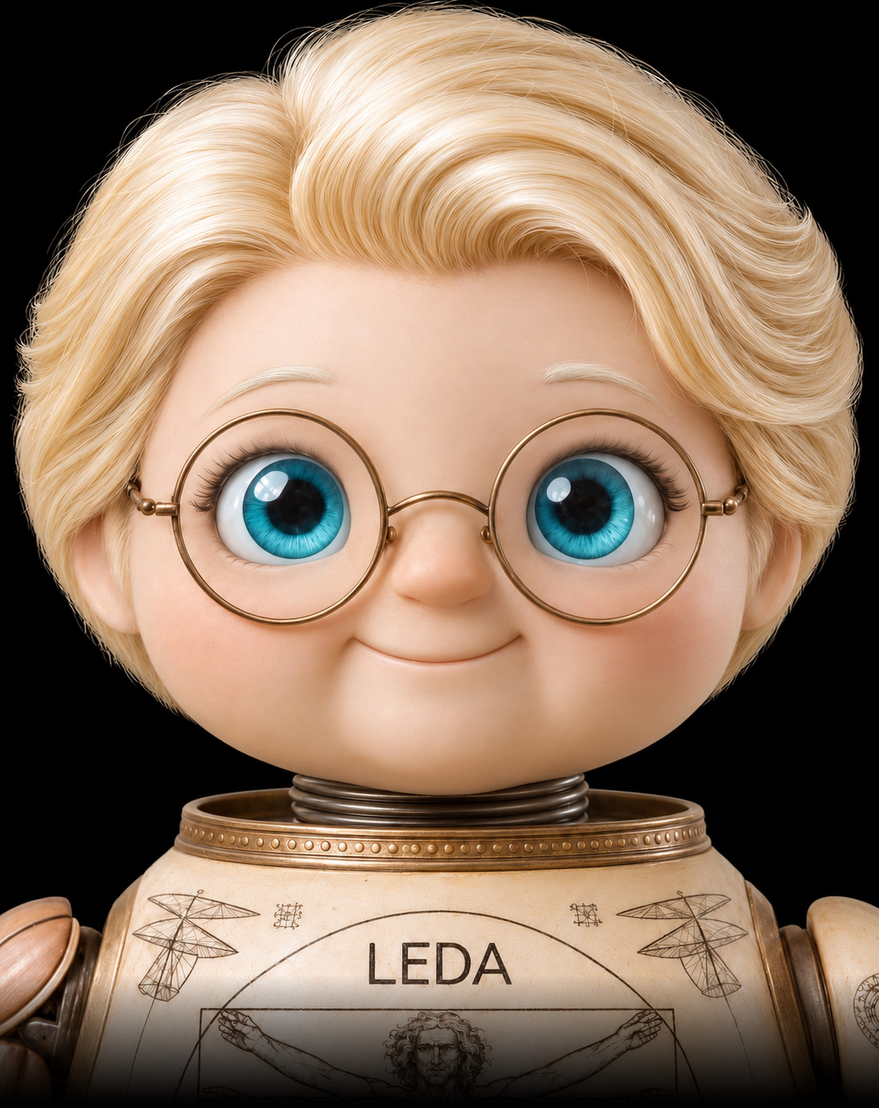
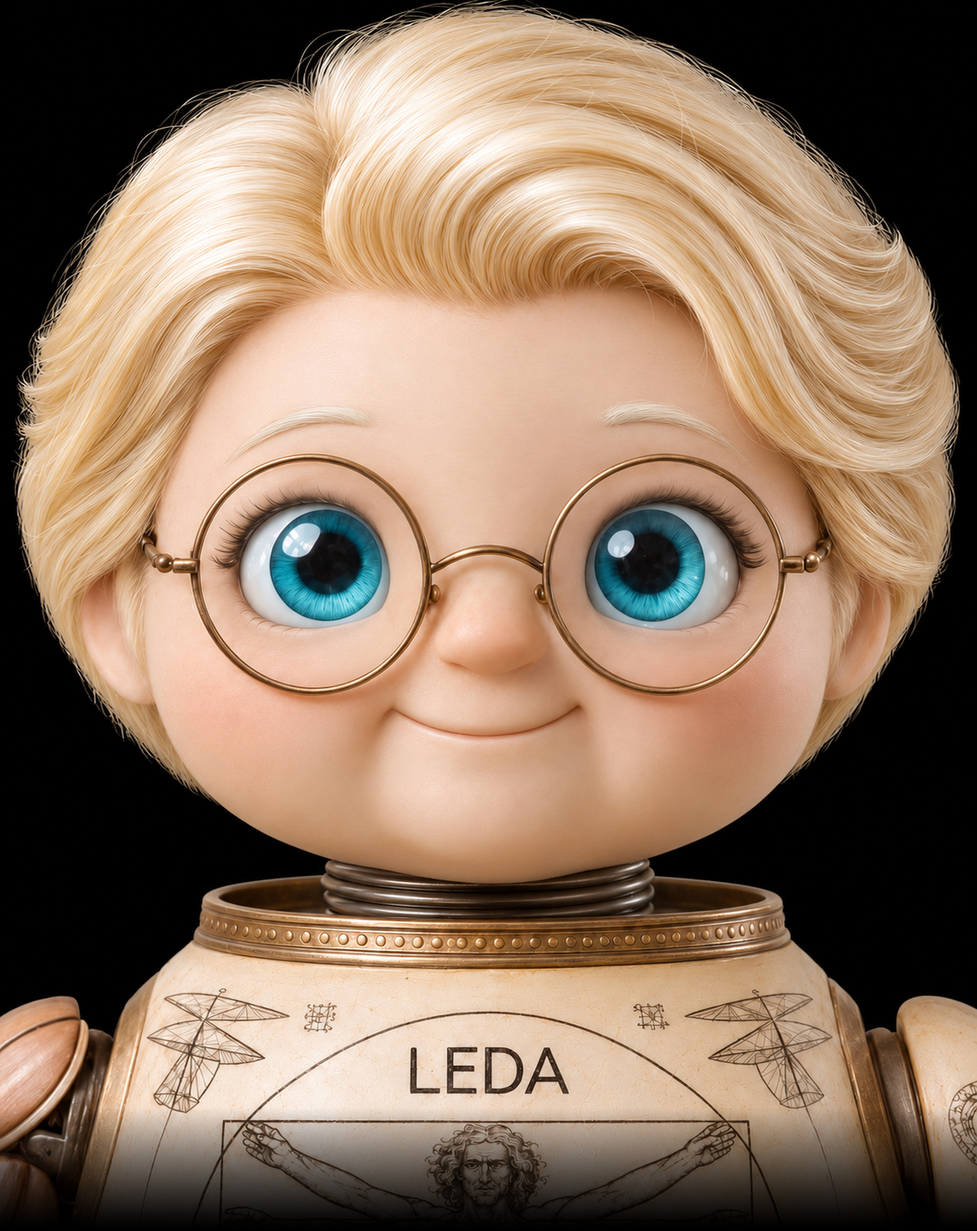
Leda: arte em alta definição sem cache velho; 'Fale com a Leda' em neon à direita do microfone. Felyx: 'Fale com o Felyx'

Changed region(s): [[0.0, 0.8638, 1.0, 0.9564]]

diff --git a/app-leda/full.html b/app-leda/full.html
@@ -450,7 +450,7 @@ input,select,textarea{font-size:16px!important}
   addEventListener('DOMContentLoaded', folgas); addEventListener('resize', folgas); addEventListener('orientationchange', ()=>setTimeout(folgas, 250));
 })();
 </script>
-<style id="semIris">#unlock{display:none!important}#hud>.mic{overflow:visible}#hud[data-tab="home"]>.mic[data-on="0"]::after{content:"toque para iniciar\A" attr(data-rotulo);white-space:pre;position:absolute;left:50%;bottom:calc(100% + 10px);transform:translateX(-50%);padding:7px 12px;border-radius:10px;background:rgba(8,11,13,.88);border:1px solid rgba(225,254,6,.45);color:#e8edf0;font:600 .72rem/1.35 "Barlow Semi Condensed","Barlow",system-ui,sans-serif;letter-spacing:.08em;text-transform:uppercase;text-align:center;pointer-events:none;width:max-content;max-width:70vw}@media (orientation:landscape) and (max-height:600px){#hud[data-tab="home"]>.mic[data-on="0"]::after{left:auto;right:calc(100% + 10px);bottom:50%;transform:translateY(50%)}}</style>
+<style id="semIris">#unlock{display:none!important}#hud>.mic{overflow:visible}#hud[data-tab="home"]>.mic[data-on="0"]::after{content:attr(data-rotulo);position:absolute;left:calc(100% + 16px);top:50%;transform:translateY(-50%);color:#e1fe06;font:700 1.02rem/1.1 "Barlow Semi Condensed","Barlow",system-ui,sans-serif;letter-spacing:.04em;white-space:nowrap;pointer-events:none;text-shadow:0 0 6px rgba(225,254,6,.75),0 0 18px rgba(225,254,6,.45),0 1px 2px #000}@media (orientation:landscape) and (max-height:600px){#hud[data-tab="home"]>.mic[data-on="0"]::after{left:auto;right:calc(100% + 16px)}}</style>
 <style id="ledaVisual">
 /* Leda (12/11/2026, revisão 2): busto recortado em fundo preto, rosto grande; paleta da VINCI; aba Receitas; sem cotações */
 :root{--leda:#e1fe06;--ledaRGB:225,254,6;--ink950:#080b0d;--ink900:#0e1317;--ink800:#141b21;--ink700:#1c252c;--linha:#24303a;--mist:#93a3af;--texto:#e8edf0}
@@ -751,7 +751,7 @@ document.addEventListener('DOMContentLoaded', ()=>{
     <section class="center">
       <section class="orbWrap" aria-label="Leda">
         <canvas id="rings" aria-hidden="true"></canvas>
-        <div class="face"><img class="ledaBusto" src="leda-busto.jpg" alt="Leda" draggable="false"><img class="ledaRosto" src="leda-rosto.jpg" alt="" draggable="false">
+        <div class="face"><img class="ledaBusto" src="leda-busto.jpg?v=20261112d" decoding="sync" alt="Leda" draggable="false"><img class="ledaRosto" src="leda-rosto.jpg?v=20261112d" alt="" draggable="false">
           <img class="retrato" src="leda-rosto.jpg" alt="" aria-hidden="true"><canvas id="cv" width="1000" height="1000" aria-hidden="true"></canvas>
           <video id="avatarVideo" autoplay playsinline muted aria-hidden="true"></video>
           <audio id="avatarAudio" autoplay></audio>
@@ -789,7 +789,7 @@ document.addEventListener('DOMContentLoaded', ()=>{
   <footer class="bottom">
     <div class="status" id="statusText" role="status" aria-live="polite"></div>
   </footer>
-    <button class="mic" id="talk" data-on="0" data-rotulo="Falar com Leda" aria-label="Falar" title="Falar">
+    <button class="mic" id="talk" data-on="0" data-rotulo="Fale com a Leda" aria-label="Falar" title="Falar">
       <svg viewBox="0 0 24 24" aria-hidden="true"><path d="M12 15a4 4 0 0 0 4-4V6a4 4 0 0 0-8 0v5a4 4 0 0 0 4 4zm6-4a1 1 0 1 1 2 0 8 8 0 0 1-7 7.93V21h2a1 1 0 1 1 0 2H9a1 1 0 1 1 0-2h2v-2.07A8 8 0 0 1 4 11a1 1 0 1 1 2 0 6 6 0 0 0 12 0z"/></svg>
     </button>
   <section id="receitas" aria-label="Receitas e boas práticas do lar"></section>
@@ -2452,7 +2452,7 @@ unlockEl.addEventListener('pointerdown', liberarEComecar);
 unlockEl.addEventListener('keydown', (e)=>{ if(e.key === 'Enter' || e.key === ' ') liberarEComecar(); });
 (function autoAbrir(){ /* semIrisAuto */ try{ unlockEl.hidden = true; }catch(e){}
   if(!SESSAO){ mostrarLogin(''); return; }
-  try{ talkBtn.title = 'Falar com Leda'; talkBtn.setAttribute('aria-label', 'Falar com Leda'); }catch(e){}
+  try{ talkBtn.title = 'Fale com a Leda'; talkBtn.setAttribute('aria-label', 'Fale com a Leda'); }catch(e){}
   return;
 
   if(!SESSAO){ mostrarLogin(''); return; }

diff --git a/app-leda/gem.html b/app-leda/gem.html
@@ -347,7 +347,7 @@ body::after{content:"";position:fixed;inset:0;pointer-events:none;background:rad
   .hud[data-tab="dashboard"] .news{min-height:200px}
 }
 </style>
-<style id="semIris">#unlock{display:none!important}#hud>.mic{overflow:visible}#hud[data-tab="home"]>.mic[data-on="0"]::after{content:"toque para iniciar\A" attr(data-rotulo);white-space:pre;position:absolute;left:50%;bottom:calc(100% + 10px);transform:translateX(-50%);padding:7px 12px;border-radius:10px;background:rgba(8,11,13,.88);border:1px solid rgba(225,254,6,.45);color:#e8edf0;font:600 .72rem/1.35 "Barlow Semi Condensed","Barlow",system-ui,sans-serif;letter-spacing:.08em;text-transform:uppercase;text-align:center;pointer-events:none;width:max-content;max-width:70vw}@media (orientation:landscape) and (max-height:600px){#hud[data-tab="home"]>.mic[data-on="0"]::after{left:auto;right:calc(100% + 10px);bottom:50%;transform:translateY(50%)}}</style>
+<style id="semIris">#unlock{display:none!important}#hud>.mic{overflow:visible}#hud[data-tab="home"]>.mic[data-on="0"]::after{content:attr(data-rotulo);position:absolute;left:calc(100% + 16px);top:50%;transform:translateY(-50%);color:#e1fe06;font:700 1.02rem/1.1 "Barlow Semi Condensed","Barlow",system-ui,sans-serif;letter-spacing:.04em;white-space:nowrap;pointer-events:none;text-shadow:0 0 6px rgba(225,254,6,.75),0 0 18px rgba(225,254,6,.45),0 1px 2px #000}@media (orientation:landscape) and (max-height:600px){#hud[data-tab="home"]>.mic[data-on="0"]::after{left:auto;right:calc(100% + 16px)}}</style>
 <style id="ledaVisual">
 /* Leda (12/11/2026, revisão 2): busto recortado em fundo preto, rosto grande; paleta da VINCI; aba Receitas; sem cotações */
 :root{--leda:#e1fe06;--ledaRGB:225,254,6;--ink950:#080b0d;--ink900:#0e1317;--ink800:#141b21;--ink700:#1c252c;--linha:#24303a;--mist:#93a3af;--texto:#e8edf0}
@@ -637,7 +637,7 @@ document.addEventListener('DOMContentLoaded', ()=>{
     <section class="center">
       <section class="orbWrap" aria-label="Leda">
         <canvas id="rings" aria-hidden="true"></canvas>
-        <div class="face"><img class="ledaBusto" src="leda-busto.jpg" alt="Leda" draggable="false"><img class="ledaRosto" src="leda-rosto.jpg" alt="" draggable="false">
+        <div class="face"><img class="ledaBusto" src="leda-busto.jpg?v=20261112d" decoding="sync" alt="Leda" draggable="false"><img class="ledaRosto" src="leda-rosto.jpg?v=20261112d" alt="" draggable="false">
           <canvas id="cv" width="1000" height="1000" aria-hidden="true"></canvas>
           <video id="avatarVideo" autoplay playsinline muted aria-hidden="true"></video>
           <audio id="avatarAudio" autoplay></audio>
@@ -689,7 +689,7 @@ document.addEventListener('DOMContentLoaded', ()=>{
     <button type="button" role="tab" data-tab-target="dashboard" aria-selected="false">Dashboard</button>
     <button type="button" role="tab" data-tab-target="receitas" aria-selected="false">Receitas</button><button type="button" role="tab" data-tab-target="rooms" aria-selected="false">Salas</button>
   </nav>
-    <button class="mic" id="talk" data-on="0" data-rotulo="Falar com Leda" aria-label="Falar" title="Falar">
+    <button class="mic" id="talk" data-on="0" data-rotulo="Fale com a Leda" aria-label="Falar" title="Falar">
       <svg viewBox="0 0 24 24" aria-hidden="true"><path d="M12 15a4 4 0 0 0 4-4V6a4 4 0 0 0-8 0v5a4 4 0 0 0 4 4zm6-4a1 1 0 1 1 2 0 8 8 0 0 1-7 7.93V21h2a1 1 0 1 1 0 2H9a1 1 0 1 1 0-2h2v-2.07A8 8 0 0 1 4 11a1 1 0 1 1 2 0 6 6 0 0 0 12 0z"/></svg>
     </button>
 </div>
@@ -2156,7 +2156,7 @@ unlockEl.addEventListener('pointerdown', liberarEComecar);
 unlockEl.addEventListener('keydown', (e)=>{ if(e.key === 'Enter' || e.key === ' ') liberarEComecar(); });
 (function autoAbrir(){ /* semIrisAuto */ try{ unlockEl.hidden = true; }catch(e){}
   if(!SESSAO){ mostrarLogin(''); return; }
-  try{ talkBtn.title = 'Falar com Leda'; talkBtn.setAttribute('aria-label', 'Falar com Leda'); }catch(e){}
+  try{ talkBtn.title = 'Fale com a Leda'; talkBtn.setAttribute('aria-label', 'Fale com a Leda'); }catch(e){}
   return;
 
   if(!SESSAO){ mostrarLogin(''); return; }

diff --git a/app/full.html b/app/full.html
@@ -450,7 +450,7 @@ input,select,textarea{font-size:16px!important}
   addEventListener('DOMContentLoaded', folgas); addEventListener('resize', folgas); addEventListener('orientationchange', ()=>setTimeout(folgas, 250));
 })();
 </script>
-<style id="semIris">#unlock{display:none!important}#hud>.mic{overflow:visible}#hud[data-tab="home"]>.mic[data-on="0"]::after{content:"toque para iniciar\A" attr(data-rotulo);white-space:pre;position:absolute;left:50%;bottom:calc(100% + 10px);transform:translateX(-50%);padding:7px 12px;border-radius:10px;background:rgba(8,11,13,.88);border:1px solid rgba(225,254,6,.45);color:#e8edf0;font:600 .72rem/1.35 "Barlow Semi Condensed","Barlow",system-ui,sans-serif;letter-spacing:.08em;text-transform:uppercase;text-align:center;pointer-events:none;width:max-content;max-width:70vw}@media (orientation:landscape) and (max-height:600px){#hud[data-tab="home"]>.mic[data-on="0"]::after{left:auto;right:calc(100% + 10px);bottom:50%;transform:translateY(50%)}}</style>
+<style id="semIris">#unlock{display:none!important}#hud>.mic{overflow:visible}#hud[data-tab="home"]>.mic[data-on="0"]::after{content:attr(data-rotulo);position:absolute;left:calc(100% + 16px);top:50%;transform:translateY(-50%);color:#e1fe06;font:700 1.02rem/1.1 "Barlow Semi Condensed","Barlow",system-ui,sans-serif;letter-spacing:.04em;white-space:nowrap;pointer-events:none;text-shadow:0 0 6px rgba(225,254,6,.75),0 0 18px rgba(225,254,6,.45),0 1px 2px #000}@media (orientation:landscape) and (max-height:600px){#hud[data-tab="home"]>.mic[data-on="0"]::after{left:auto;right:calc(100% + 16px)}}</style>
 </head>
 <body>
 <div class="unlock" id="unlock" hidden role="button" tabindex="0" aria-label="Toque para ler a sua íris">
@@ -529,7 +529,7 @@ input,select,textarea{font-size:16px!important}
   <footer class="bottom">
     <div class="status" id="statusText" role="status" aria-live="polite"></div>
   </footer>
-    <button class="mic" id="talk" data-on="0" data-rotulo="Falar com Felyx" aria-label="Falar" title="Falar">
+    <button class="mic" id="talk" data-on="0" data-rotulo="Fale com o Felyx" aria-label="Falar" title="Falar">
       <svg viewBox="0 0 24 24" aria-hidden="true"><path d="M12 15a4 4 0 0 0 4-4V6a4 4 0 0 0-8 0v5a4 4 0 0 0 4 4zm6-4a1 1 0 1 1 2 0 8 8 0 0 1-7 7.93V21h2a1 1 0 1 1 0 2H9a1 1 0 1 1 0-2h2v-2.07A8 8 0 0 1 4 11a1 1 0 1 1 2 0 6 6 0 0 0 12 0z"/></svg>
     </button>
   <nav class="appTabs" role="tablist" aria-label="Navegação principal"><button type="button" role="tab" data-tab-target="home" aria-selected="true">Felyx</button><button type="button" role="tab" data-tab-target="dashboard" aria-selected="false">Dashboard</button><button type="button" role="tab" data-tab-target="rooms" aria-selected="false">Salas</button></nav>
@@ -2174,7 +2174,7 @@ unlockEl.addEventListener('pointerdown', liberarEComecar);
 unlockEl.addEventListener('keydown', (e)=>{ if(e.key === 'Enter' || e.key === ' ') liberarEComecar(); });
 (function autoAbrir(){ /* semIrisAuto */ try{ unlockEl.hidden = true; }catch(e){}
   if(!SESSAO){ mostrarLogin(''); return; }
-  try{ talkBtn.title = 'Falar com Felyx'; talkBtn.setAttribute('aria-label', 'Falar com Felyx'); }catch(e){}
+  try{ talkBtn.title = 'Fale com o Felyx'; talkBtn.setAttribute('aria-label', 'Fale com o Felyx'); }catch(e){}
   return;
 
   if(!SESSAO){ mostrarLogin(''); return; }

diff --git a/app-leda/index.html b/app-leda/index.html
@@ -1,3 +1,3 @@
 <!doctype html><html lang="pt-BR"><head><meta charset="utf-8"><meta name="viewport" content="width=device-width,initial-scale=1,viewport-fit=cover"><title>Leda AI Vinci</title><link rel="manifest" href="manifest.json"><style>html,body{margin:0;height:100%;background:#05080d}</style>
-<script>location.replace('full.html' + location.search + location.hash);</script>
-<meta http-equiv="refresh" content="0;url=full.html"></head><body><!-- Leda: o app abre a Leda Full em full.html; o login fica dentro dela --></body></html>
+<script>location.replace('full.html?v=20261112d' + (location.search ? '&' + location.search.slice(1) : '') + location.hash);</script>
+<meta http-equiv="refresh" content="0;url=full.html?v=20261112d"></head><body><!-- Leda: o app abre a Leda Full em full.html; o login fica dentro dela --></body></html>

diff --git a/app/index.html b/app/index.html
@@ -976,7 +976,7 @@ function gravarIA(v){ store.set(chaveIA(), v); $('#ajIA').checked = v === true; 
 function irParaGen(){
   if (!sessao || !sessao.token || sessao.demo || !iaAceita() || params.get('cerebro') === 'claude') return false;
   try{ localStorage.setItem('felyx_sessao', sessao.token); }catch(e){}
-  const q = new URLSearchParams(location.search); q.set('v', '20261112b'); location.replace('full.html?' + q.toString()); return true;   // v novo a cada publicação: o app nunca abre a tela antiga do cache
+  const q = new URLSearchParams(location.search); q.set('v', '20261112d'); location.replace('full.html?' + q.toString()); return true;   // v novo a cada publicação: o app nunca abre a tela antiga do cache
 }
 let iaPedido = null;
 function permissaoIA(){
